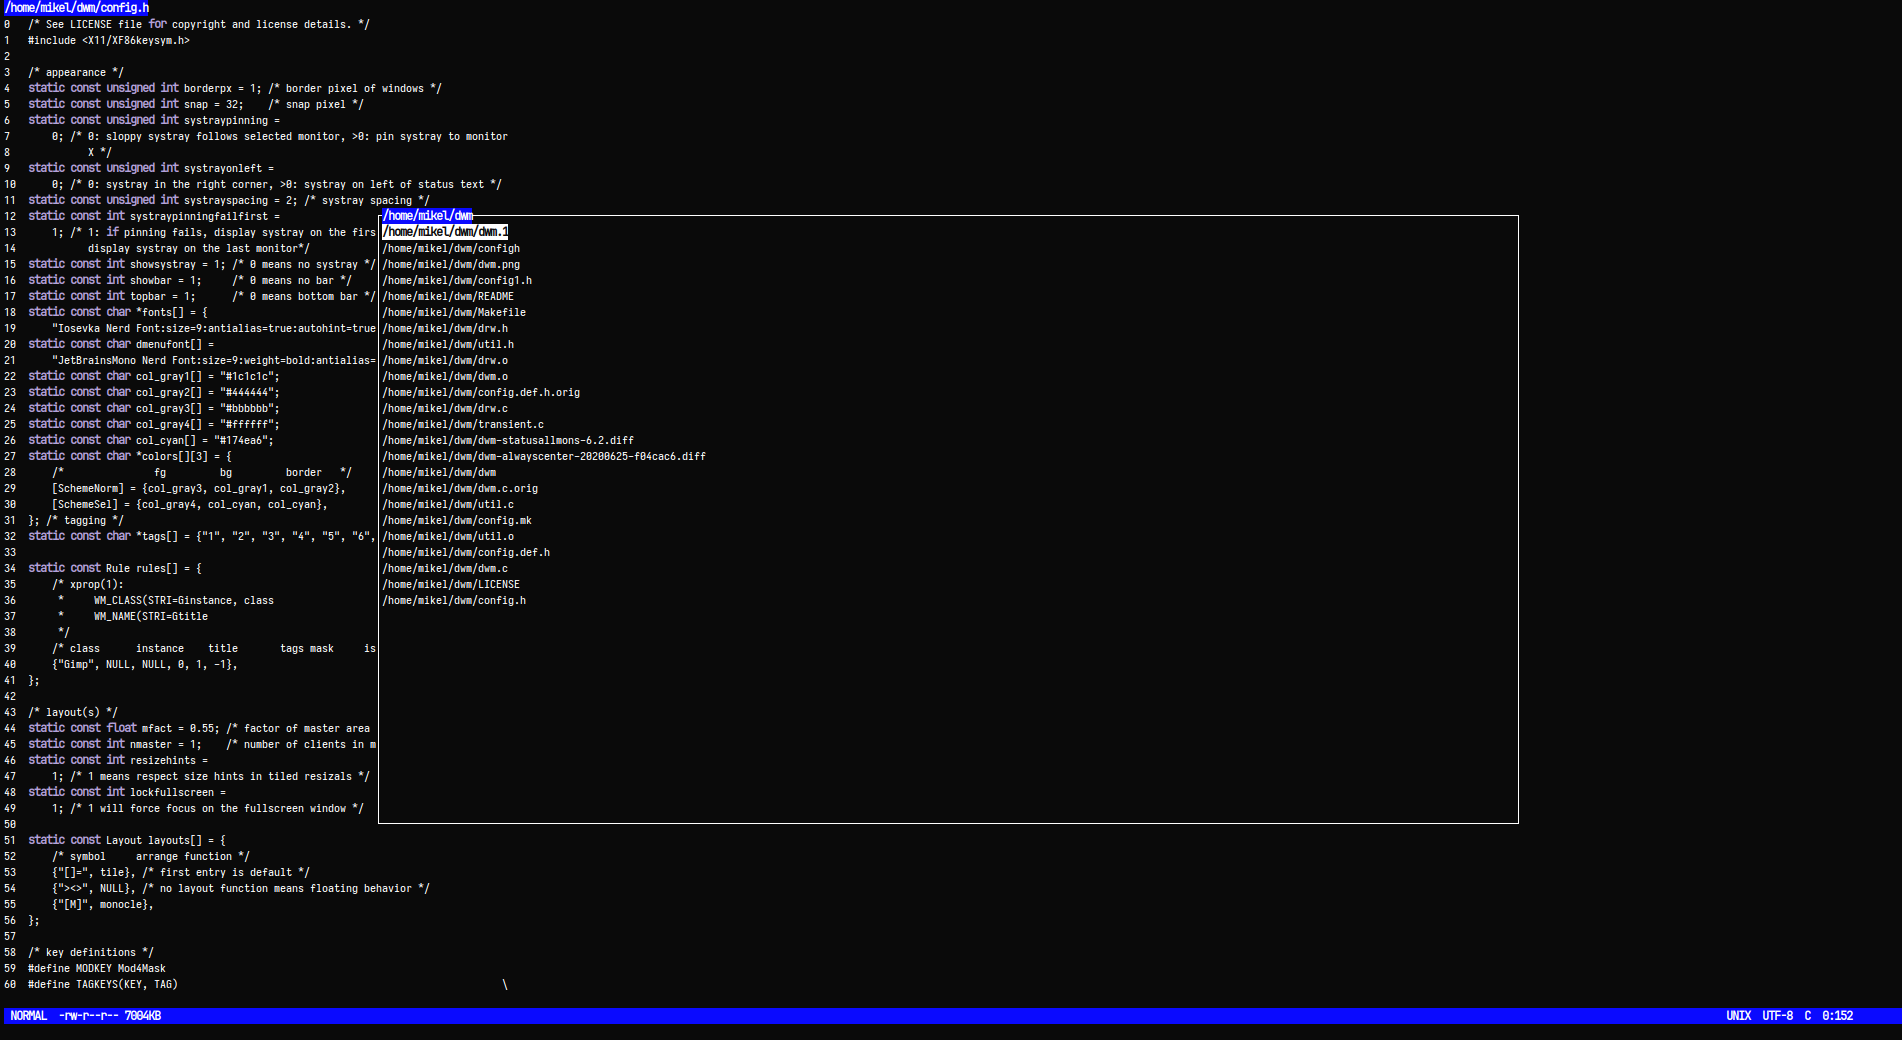
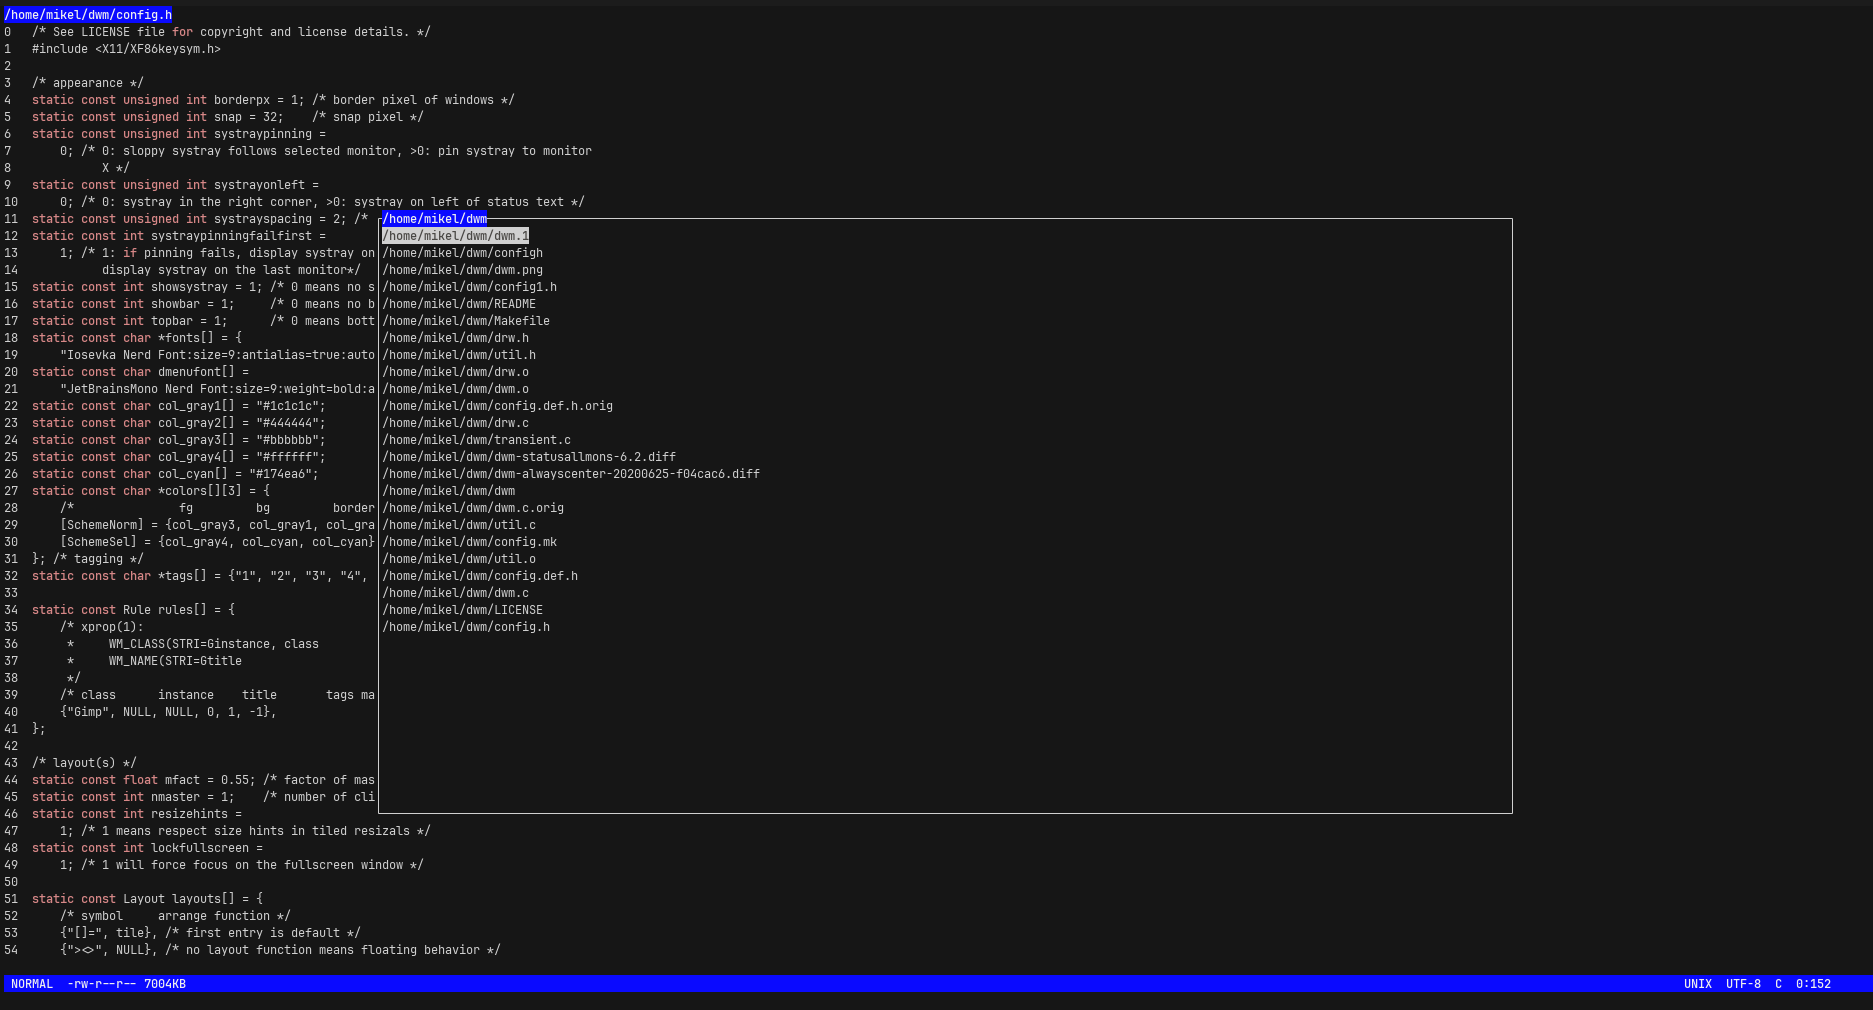
sc

Changed region(s): [[0.0, 0.0, 1.0, 1.0]]

diff --git a/prueba.rs b/prueba.rs
@@ -2,5 +2,4 @@ pub fn main() {
     for i in a {
         let f = Vec::new();
     }
-}dddddddddddddddddddddddddddddddddddddddddddddddddddddddddddddddddddddddddddddddddddddddddddddddddddddddddddddddddddddddddddddddddddddddddddddddddddddddddddddddddddddddddddddddddddddddddddddddddddddddddddddddddddddddddddddddddd
-dddddddddddddddddddddddddddddddddddddddddddddddddddddddddddd
+}    

diff --git a/src/explorer.rs b/src/explorer.rs
@@ -23,7 +23,7 @@ pub struct Explorer {
 
 impl Explorer {
     pub fn new(path: impl Into<String> + Copy) -> Self {
-        init_color(COLOR_BLACK as i16, 110, 110, 110);
+        init_color(COLOR_BLACK as i16, 90, 90, 90);
         init_pair(1, COLOR_BLACK, COLOR_WHITE);
         init_pair(2, COLOR_WHITE, COLOR_BLUE);
         init_pair(3, COLOR_BLUE, COLOR_BLACK);
